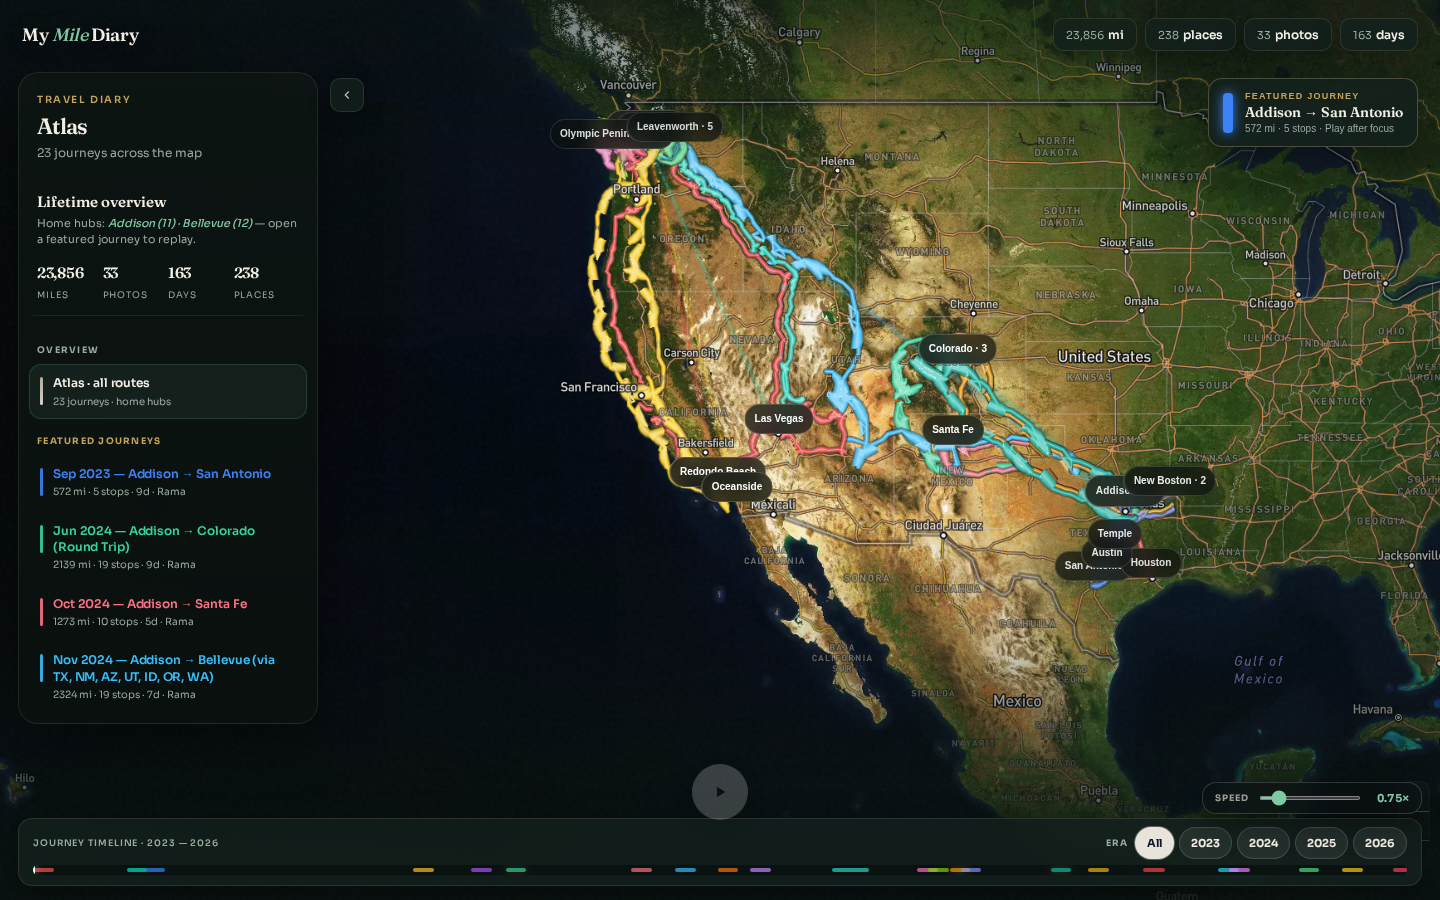
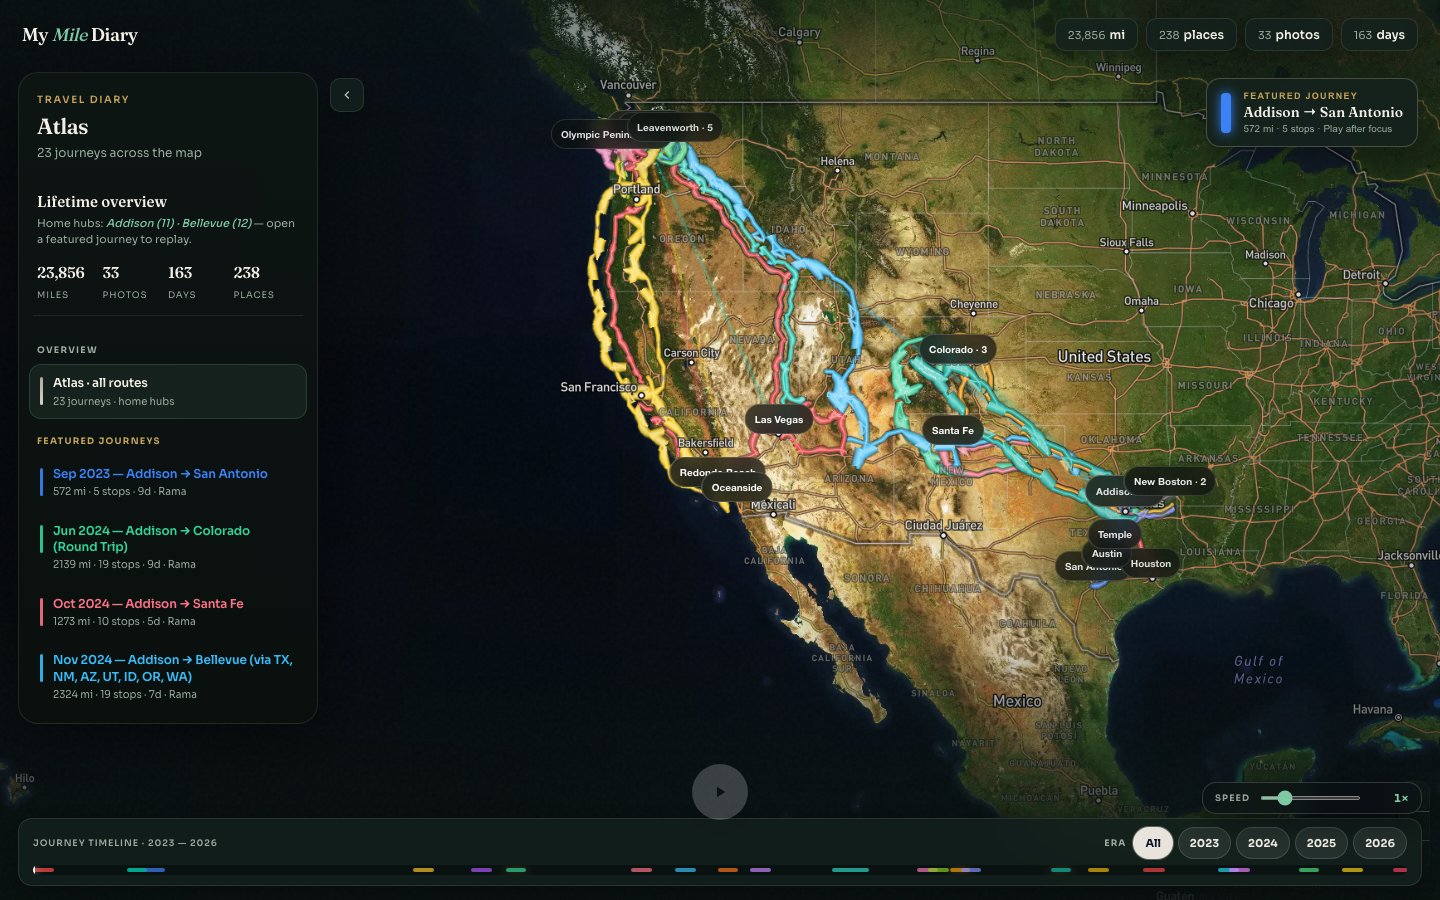
Make 1× default easy pace and linger photo memories (#23)
* Make 1× the default easy pace and linger photo memories longer.

Stretch the cinematic timeline so default 1× feels like a calm passenger-seat replay, and raise memory holds so photo stages stay on screen a bit longer.

* Refresh README screenshots after playback pacing tweak.

diff --git a/scripts/build_map.py b/scripts/build_map.py
@@ -49,11 +49,12 @@ MEMORY_ROUTE_SNAP_MI = 45.0
 # Skip stray GPS that would yank the whole trip off-corridor (still show pins).
 MAX_PHOTO_ROUTE_MI = 45.0
 # Cinematic timeline — UI speed (default 1×) multiplies on top.
-PLAYBACK_TARGET_MIN_MS = 80_000
-PLAYBACK_TARGET_MAX_MS = 480_000
-# Photo holds — keep brief so memories don't stall the drive.
-MEMORY_HOLD_MS = 650
-MEMORY_HOLD_OFF_CORRIDOR_MS = 500
+# Targets sized so 1× feels like an easy passenger-seat pace (not rushed).
+PLAYBACK_TARGET_MIN_MS = 120_000
+PLAYBACK_TARGET_MAX_MS = 720_000
+# Photo holds — long enough to read the memory stage, still brief vs travel.
+MEMORY_HOLD_MS = 1200
+MEMORY_HOLD_OFF_CORRIDOR_MS = 950
 
 # Continental US bounds for overview camera
 US_BOUNDS = {"west": -125.0, "east": -95.0, "south": 24.0, "north": 49.5}
@@ -539,14 +540,14 @@ def _renormalize_segment_durations(
     scale = body_budget / raw
     floors = {
         # Keep stop holds brief — long dwell % bars felt like waiting.
-        "dwell": 450,
-        "travel": 3_200,
-        "memory": 560,
+        "dwell": 650,
+        "travel": 4_800,
+        "memory": 1100,
     }
     ceilings = {
-        "dwell": 1_000,
-        "travel": 22_000,
-        "memory": 850,
+        "dwell": 1_400,
+        "travel": 30_000,
+        "memory": 1_600,
     }
     for s in body:
         kind = s.get("type") or "travel"
@@ -556,11 +557,11 @@ def _renormalize_segment_durations(
         miles = float(s.get("leg_miles") or 0)
         if kind == "travel":
             if miles > 250:
-                lo = max(lo, 7_000)
+                lo = max(lo, 10_000)
             elif miles > 120:
-                lo = max(lo, 5_200)
+                lo = max(lo, 7_500)
             elif miles > 60:
-                lo = max(lo, 4_000)
+                lo = max(lo, 5_800)
         s["duration_ms"] = int(max(lo, min(hi, dur)))
 
     # Second pass: if still over budget, shrink short travels first; protect long drives
@@ -572,11 +573,11 @@ def _renormalize_segment_durations(
         def travel_floor(s: dict) -> int:
             miles = float(s.get("leg_miles") or 0)
             if miles > 250:
-                return 6_500
+                return 9_500
             if miles > 120:
-                return 4_800
+                return 7_000
             if miles > 60:
-                return 3_800
+                return 5_500
             return floors["travel"]
 
         soft = [s for s in travels if s["duration_ms"] > travel_floor(s)]
@@ -1212,7 +1213,7 @@ def build_playback_timeline(
         lng_hint = sub[0][1] if sub else None
         t_start, t_end = driving_clock_window(t_start, t_end, sub_mi, lng_hint)
         weighted_h = clock_weighted_hours(t_start, t_end, lng_hint)
-        dur = max(2_800, min(20_000, int(sub_mi * 58 + 1_600 + weighted_h * 1_050)))
+        dur = max(4_200, min(28_000, int(sub_mi * 85 + 2_400 + weighted_h * 1_500)))
         to_label = (leg.get("to_label") or "").strip()
         if to_label.lower().startswith("photo"):
             to_label = ""
@@ -1283,7 +1284,7 @@ def build_playback_timeline(
             road_i += 1
             label = short_location_label(stop["location"])
             cap = captions[road_i] if road_i < len(captions) else {}
-            dwell_ms = 750 if not is_last else 950
+            dwell_ms = 1100 if not is_last else 1400
             stop_ts = parse_waypoint_ts(stop.get("datetime"))
             body.append({
                 "type": "dwell",

diff --git a/scripts/verify_map.py b/scripts/verify_map.py
@@ -792,11 +792,11 @@ def main() -> int:
     if not play_state.get("clockVisible") or not play_state.get("clockText"):
         print(f"FAIL: Live trip clock should show during play: {play_state}")
         ok = False
-    if cinema_ux.get("maxDwell", 9999) > 1200:
-        print(f"FAIL: Dwell segments should be short (<=1.2s): {cinema_ux}")
+    if cinema_ux.get("maxDwell", 9999) > 1600:
+        print(f"FAIL: Dwell segments should be short (<=1.6s): {cinema_ux}")
         ok = False
-    if cinema_ux.get("maxMemory", 0) > 900:
-        print(f"FAIL: Photo memory holds should be short (<=0.9s): {cinema_ux}")
+    if cinema_ux.get("maxMemory", 0) > 1600:
+        print(f"FAIL: Photo memory holds should stay readable but brief (<=1.6s): {cinema_ux}")
         ok = False
     if cinema_ux.get("dwellPct"):
         print(f"FAIL: Dock must not show dwell percentage: {cinema_ux}")
@@ -815,10 +815,10 @@ def main() -> int:
         print(f"FAIL: Trip clock must match photo caption instant: {pcm}")
         ok = False
     pcm_mem = float(pcm.get("maxMemory") or 0)
-    if pcm.get("ok") and pcm_mem > 900:
-        print(f"FAIL: Photo album memory holds should be short: {pcm}")
+    if pcm.get("ok") and pcm_mem > 1600:
+        print(f"FAIL: Photo album memory holds should stay brief: {pcm}")
         ok = False
-    if pcm.get("ok") and pcm.get("memoryCount", 0) > 0 and pcm_mem < 450:
+    if pcm.get("ok") and pcm.get("memoryCount", 0) > 0 and pcm_mem < 800:
         print(f"FAIL: Photo memory holds too brief to read: {pcm}")
         ok = False
     hen = pcm.get("nightAtHenrietta") if isinstance(pcm, dict) else None
@@ -849,8 +849,8 @@ def main() -> int:
     if not dock_state.get("memoryStage"):
         print(f"FAIL: Memory stage overlay missing: {dock_state}")
         ok = False
-    if abs(float(dock_state.get("defaultSpeed") or 0) - 0.75) > 0.001:
-        print(f"FAIL: Default playback speed should be 0.75: {dock_state}")
+    if abs(float(dock_state.get("defaultSpeed") or 0) - 1.0) > 0.001:
+        print(f"FAIL: Default playback speed should be 1.0: {dock_state}")
         ok = False
     if float(dock_state.get("speedMin") or 1) > 0.25 + 1e-9:
         print(f"FAIL: Speed range should allow 0.25×: {dock_state}")
@@ -915,8 +915,8 @@ def main() -> int:
     if share_state.get("dwellCount", 0) > 2 and share_state.get("richCaptionCount", 0) < 1:
         print(f"FAIL: Expected richer dwell captions: {share_state}")
         ok = False
-    if abs(float(share_state.get("defaultSpeed") or 0) - 0.75) > 0.001:
-        print(f"FAIL: Default speed should be 0.75×: {share_state}")
+    if abs(float(share_state.get("defaultSpeed") or 0) - 1.0) > 0.001:
+        print(f"FAIL: Default speed should be 1×: {share_state}")
         ok = False
     if share_state.get("nearbyLeak"):
         print(f"FAIL: Nearby-place copy should be removed: {share_state}")

diff --git a/README.md b/README.md
@@ -22,7 +22,7 @@ Every merge to `main` rebuilds this site via GitHub Actions (`.github/workflows/
 - **Year era filter** — isolate diary chapters by year
 - **3D satellite map** with Mapbox terrain and elevated route lines
 - **Watch mode** — Play hides chrome for a passenger-seat replay
-- **Steady journey playback** — distance-paced travel along chargers and photo GPS; smart zoom when you linger in a small area; memory holds are brief (default **0.75×**; continuous **0.25×–4×** speed slider; `[` / `]` nudge by 0.25×)
+- **Steady journey playback** — distance-paced travel along chargers and photo GPS; smart zoom when you linger in a small area; memory holds linger just long enough to read (default **1×** easy pace; continuous **0.25×–4×** speed slider; `[` / `]` nudge by 0.25×)
 - **Separated play + speed** — play/pause stays bottom-center; continuous speed rail sits bottom-right so captions and Journey Complete never cover controls
 - **Live trip clock** — large HUD date/time tracks the playhead in the trip’s local timezone; memory captions use the same photo capture instant (not charger stop times). Day and night play at the same rate (no night skip / morning linger).
 - **Gradual day↔night** — map lighting ramps through twilight from the live clock (visual only; does not change playback speed)
